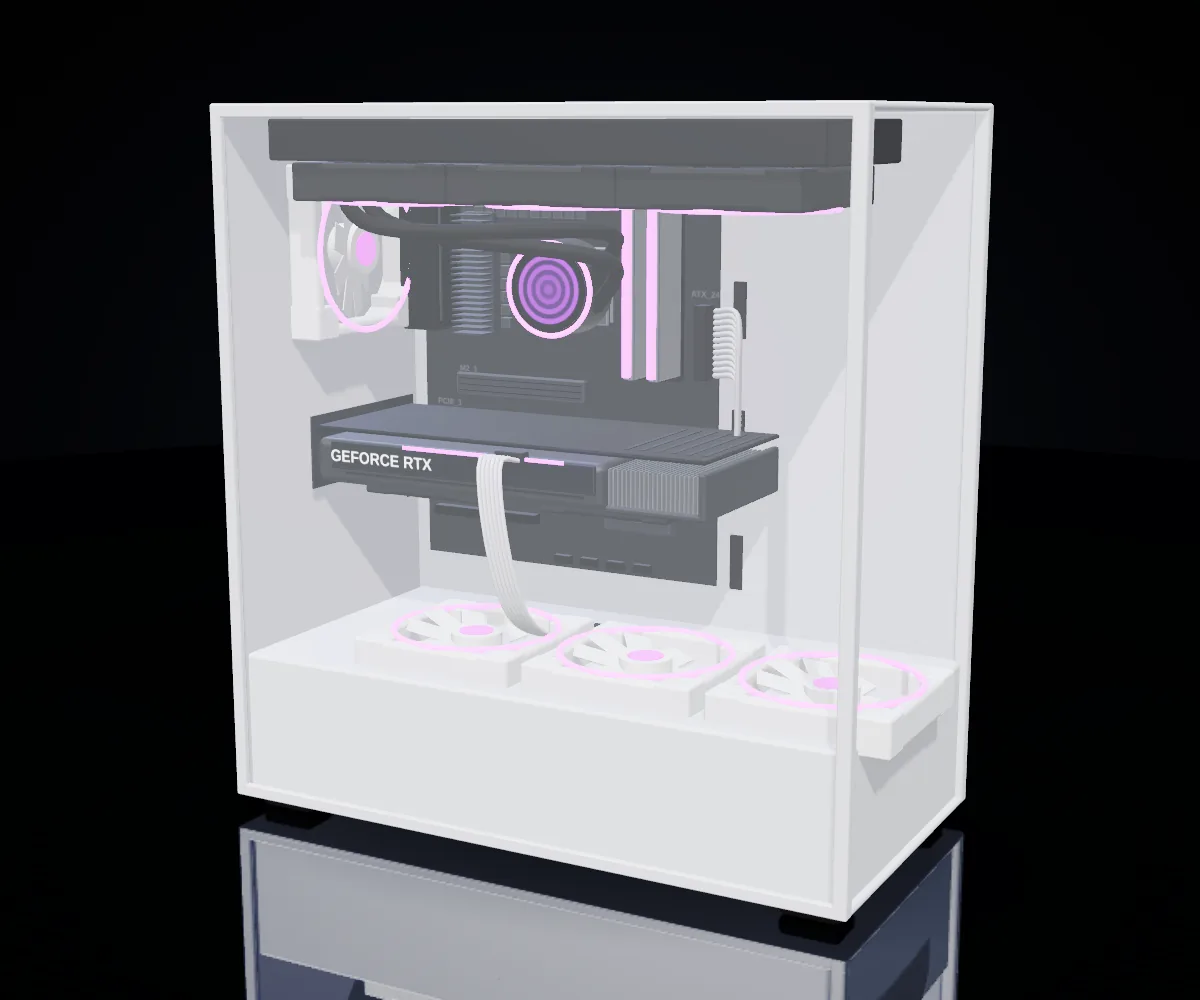
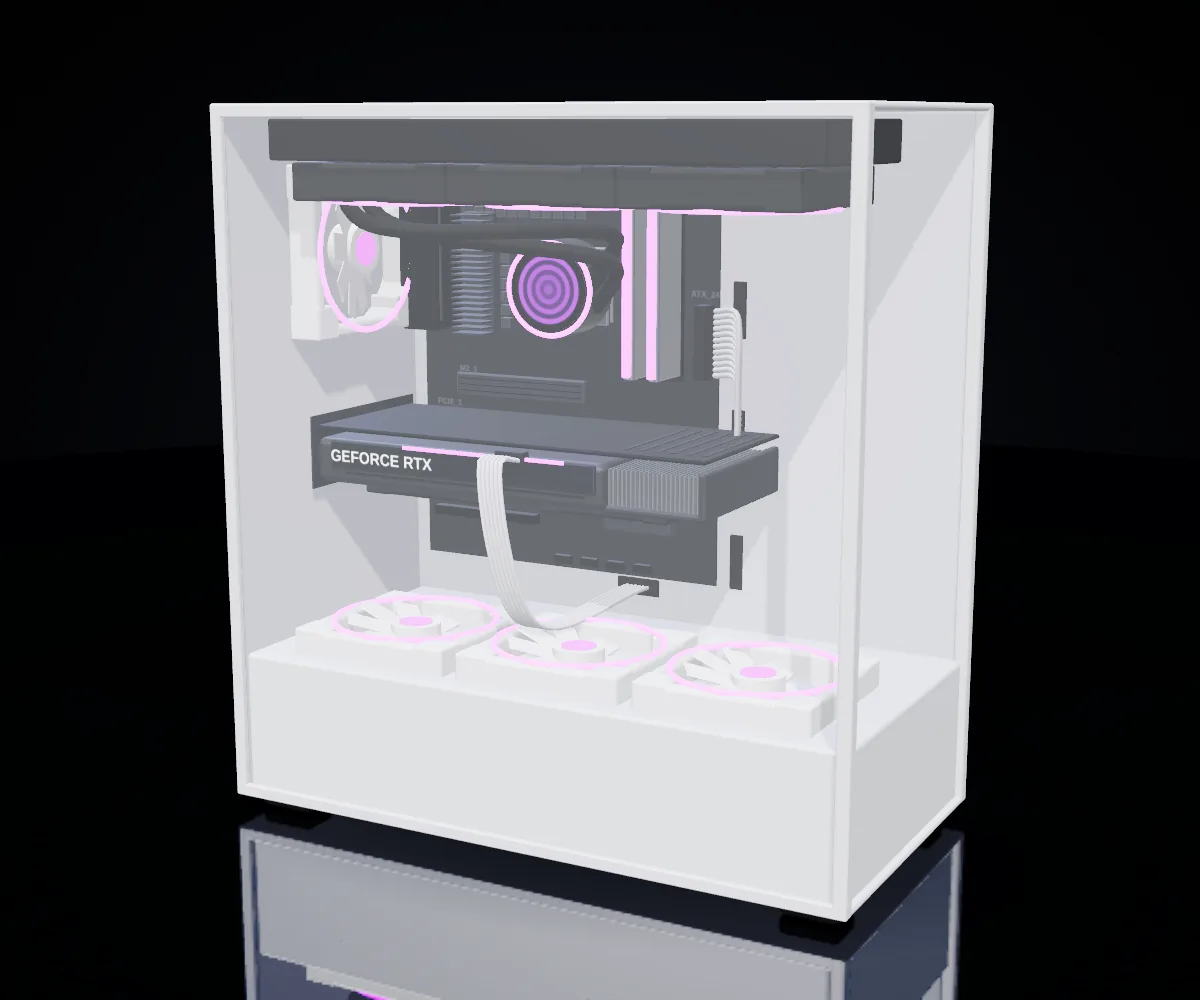
3D model: bottom fans inside the O11 case; GPU cable to the tray grommet
- the three 120 mm fans on the shroud of glass-front cases are centred
  (x -13/0/13); the front one stuck 1.5 cm through the front glass
- on those cases the GPU power cable goes back to a grommet in the
  motherboard tray instead of dropping into the middle fan
- landing build images re-rendered

Claude-Session: https://claude.ai/code/session_01CQ2dz8qP2rnGxRRBkPj2Hh

diff --git a/js/pc3d.js b/js/pc3d.js
@@ -404,7 +404,8 @@ function caseShell(spec = {}, color = "#16171a", rgb, { withFans = true } = {}) 
       const f = fan(12, { frame: fanCol, blades: blade, rgb });
       f.rotation.y = -Math.PI / 2; f.position.set(D / 2 - 2.6, y, 0); g.add(f);
     }
-    if (front === "glass") for (const x of [-8, 5, 18]) { const f = fan(12, { frame: fanCol, blades: blade, rgb }); f.rotation.x = -Math.PI / 2; f.position.set(x, 10.6, 3); g.add(f); }
+    // three 120 mm fans centred on the shroud, inside the front glass (D/2 = 22.5)
+    if (front === "glass") for (const x of [-13, 0, 13]) { const f = fan(12, { frame: fanCol, blades: blade, rgb }); f.rotation.x = -Math.PI / 2; f.position.set(x, 10.6, 3); g.add(f); }
   }
   return g;
 }
@@ -463,9 +464,16 @@ export function assemble(b) {
     root.add(gpu);
     if (b.psu) {
       const p = gpu.userData.power.clone().add(gpu.position);
-      cable(root, [p, new THREE.Vector3(p.x, p.y + 0.3, p.z + 2.2), new THREE.Vector3(p.x + 1.5, 13.5, p.z + 1.2), new THREE.Vector3(p.x + 2.5, 9.4, zb + 3.5)], 6, new THREE.Vector3(1, 0, 0), sleeve(b), 0.15);
-      // rubber grommet in the PSU shroud where the cable goes through
-      add(root, RB(3.4, 0.24, 1.6, 0.1, 2), M.plastic("#07080a", 0.8), p.x + 2.5, 10.05, zb + 3.5);
+      if (cs.front === "glass") {
+        // fans on the shroud (O11 style): the cable goes back through a grommet in the motherboard tray, below the board
+        const tz = -W / 2 + 0.62;
+        cable(root, [p, new THREE.Vector3(p.x, p.y + 0.3, p.z + 2.2), new THREE.Vector3(p.x + 1.5, 13.2, p.z + 0.6), new THREE.Vector3(p.x + 2.5, 12.3, tz + 0.1)], 6, new THREE.Vector3(1, 0, 0), sleeve(b), 0.15);
+        add(root, RB(3.4, 1.3, 0.24, 0.3, 2), M.plastic("#07080a", 0.8), p.x + 2.5, 12.3, tz);
+      } else {
+        cable(root, [p, new THREE.Vector3(p.x, p.y + 0.3, p.z + 2.2), new THREE.Vector3(p.x + 1.5, 13.5, p.z + 1.2), new THREE.Vector3(p.x + 2.5, 9.4, zb + 3.5)], 6, new THREE.Vector3(1, 0, 0), sleeve(b), 0.15);
+        // rubber grommet in the PSU shroud where the cable goes through
+        add(root, RB(3.4, 0.24, 1.6, 0.1, 2), M.plastic("#07080a", 0.8), p.x + 2.5, 10.05, zb + 3.5);
+      }
     }
   }
   if (b.mb && b.psu) {
